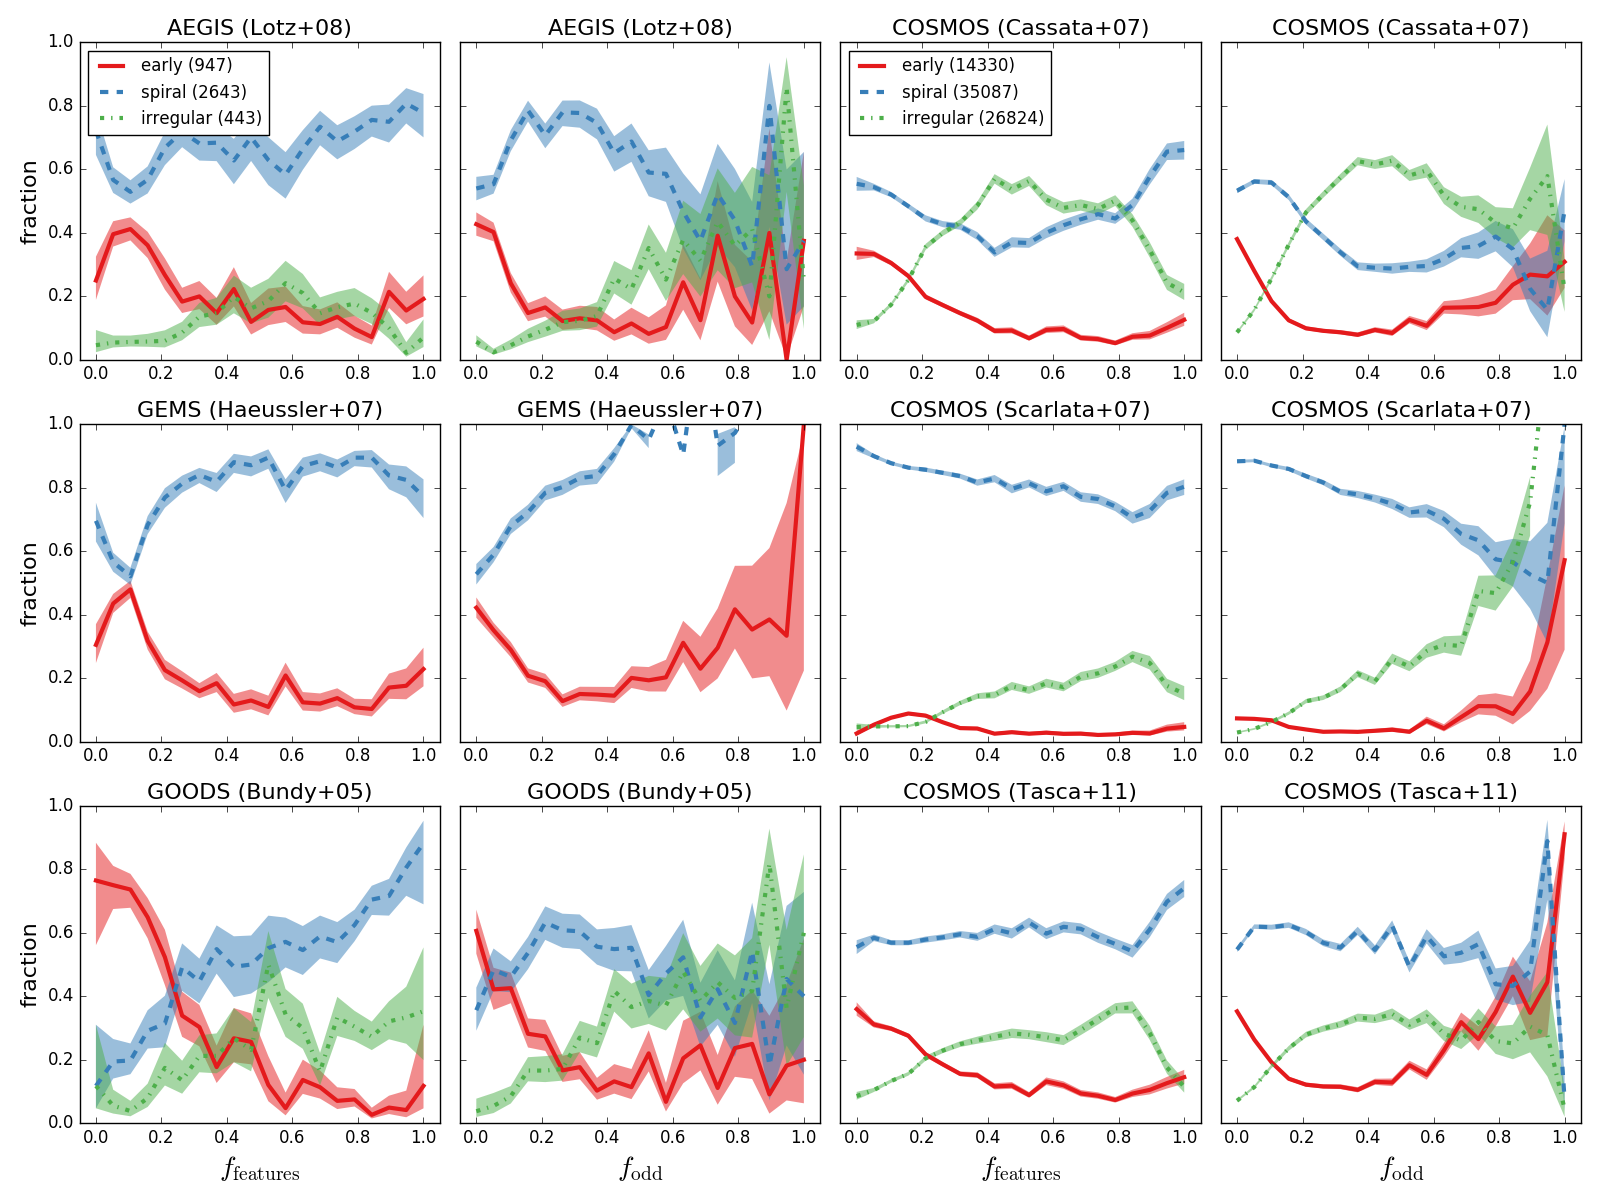
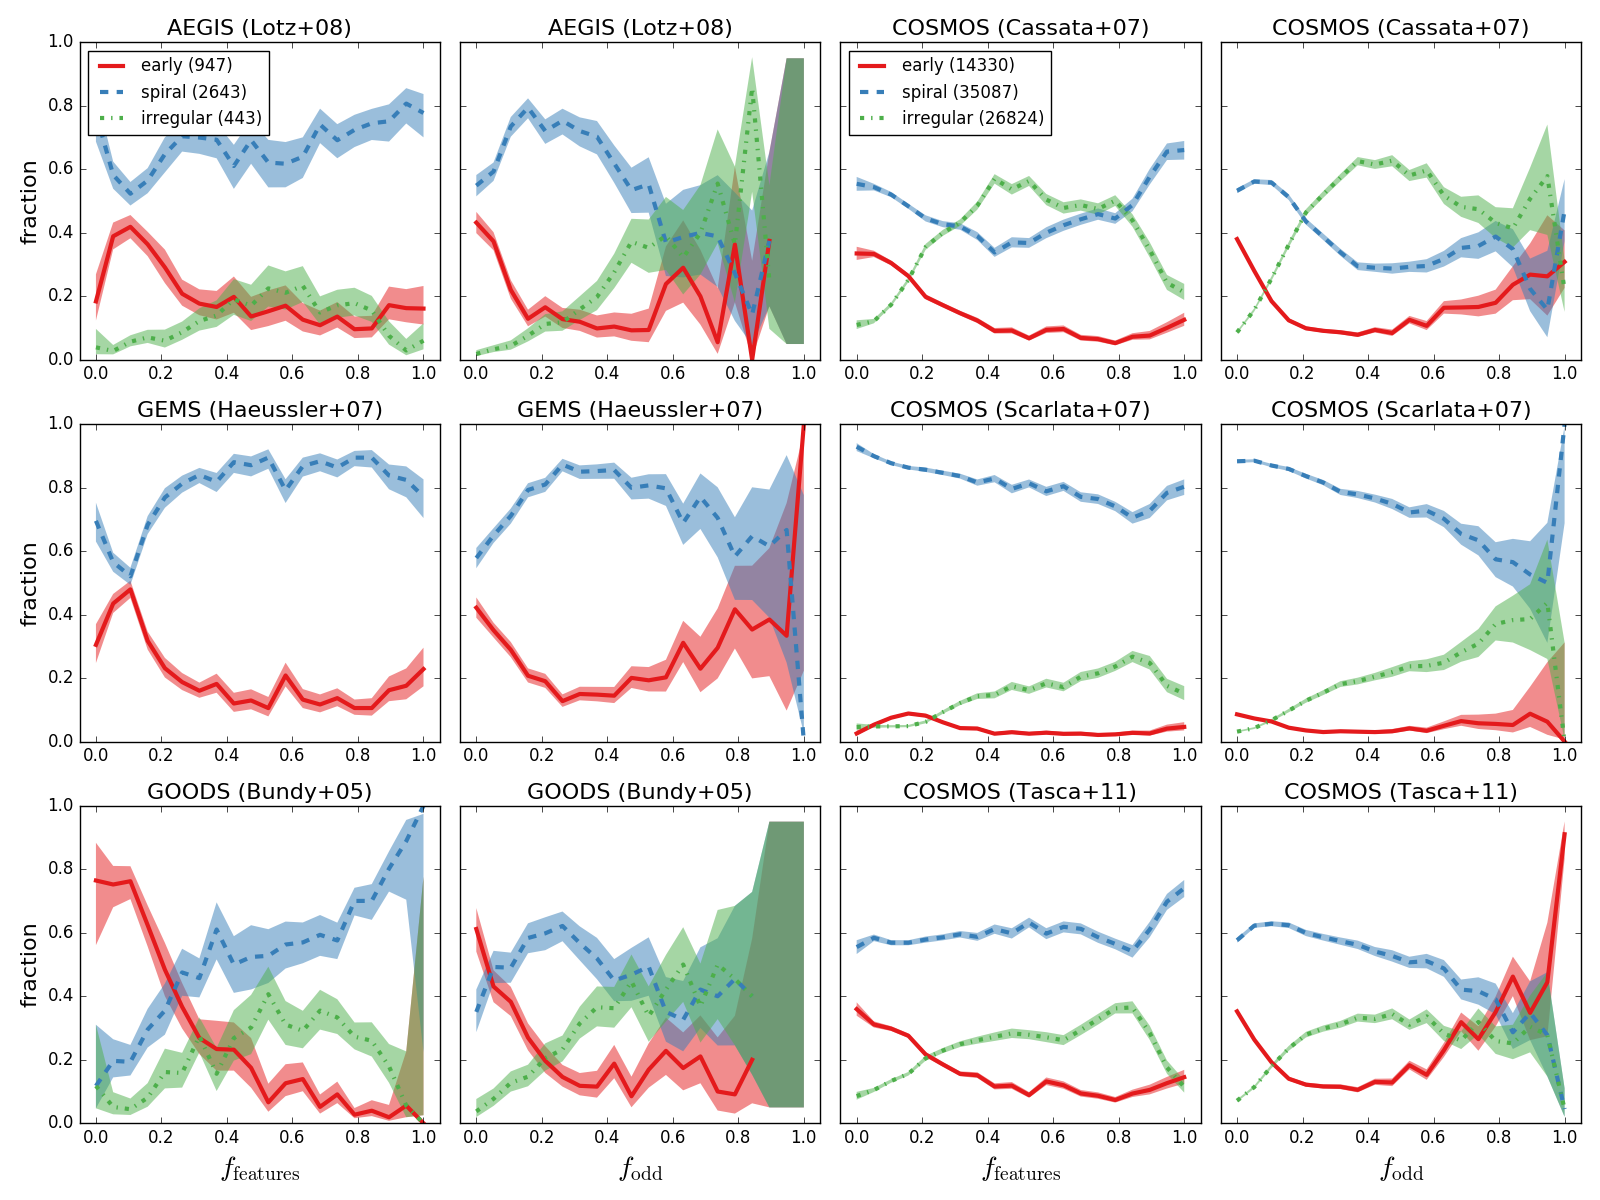
Feedback from Boris, espec. on Figure 12

diff --git a/writeup/gz_hubble_data.tex b/writeup/gz_hubble_data.tex
@@ -2038,14 +2038,19 @@ spirals, showing almost no difference in proportion at the highest and lowest
 ends. Early-type galaxies are at their highest proportion at \fbest$\sim0$, but
 constitute at most only 40\% of galaxies. In contrast, GOODS galaxies at low
 \fbest{} are dominated by early-types, although spiral and irregular galaxies
-have comparable sizes as low as \fbest$\sim0.2$. In GEMS galaxies, the impact
-of irregular or peculiar galaxies is not measured; splitting on $n=2.5$ gives
-an essentially flat proportion of ellipticals to spirals at \fbest$>0.3$.
-Visual inspection of images of galaxies where both \fbest{} and $n$ are high
-show that the majority are obvious spirals but with prominent bulges,
-indicating that the single-component \sersic{} fit is likely choosing too small
-of an effective radius and missing the extended disk structure for a large
-population of galaxies. 
+have comparable sizes as low as \fbest$\sim0.2$. 
+
+In GEMS galaxies, the impact of irregular or peculiar galaxies is not measured;
+splitting on $n=2.5$ gives an essentially flat proportion of ellipticals to
+spirals at \fbest$>0.3$.  Visual inspection of images of galaxies where both
+\fbest{} and $n$ are high show that the majority are obvious spirals but with
+prominent bulges, indicating that the single-component \sersic{} fit is likely
+choosing too small of an effective radius and missing the extended disk
+structure for a large population of galaxies. This is a known issue with using
+$n$ as a standalone measure of galaxy morphology -- it is relatively common,
+for example, to measure high $n$ for an object with an exponential disk but a
+central cusp in the light profile (eg, due to an AGN, cluster, foreground
+star, noise, etc).
 
 Even within the same sample of galaxies in COSMOS, different techniques of
 measuring morphology show significant differences. Both \citet{cas07} and

diff --git a/python/comparisons.py b/python/comparisons.py
@@ -852,8 +852,8 @@ def frac_all(zint=0.0,zlow=0.0):
             for morph,color,label,ls in zip((early,spiral,irr),colors,mlabels,('-','--','-.')):
 
                 if morph.sum() > 0:
-                    h,edges = np.histogram(data[morph][frac],bins=bnum)
-                    h2,edges2 = np.histogram(data[np.any([early,spiral,irr],axis=0)][frac],bins=bnum)
+                    h,edges = np.histogram(data[morph][frac],bins=bnum,range=(0,1))
+                    h2,edges2 = np.histogram(data[np.any([early,spiral,irr],axis=0)][frac],bins=bnum,range=(0,1))
 
                     e_frac = h * 1./h2
                     e_frac_err = cameron_err(0.90,h,h2)
@@ -878,6 +878,7 @@ def frac_all(zint=0.0,zlow=0.0):
             ax1.legend(loc='upper left',fontsize=12)
 
     fig.tight_layout()
+
     if zint > 0.:
         plt.savefig("{0}/comparisons/all_z{1:.1f}.png".format(gzh_path,zlow),dpi=100)
     else:
